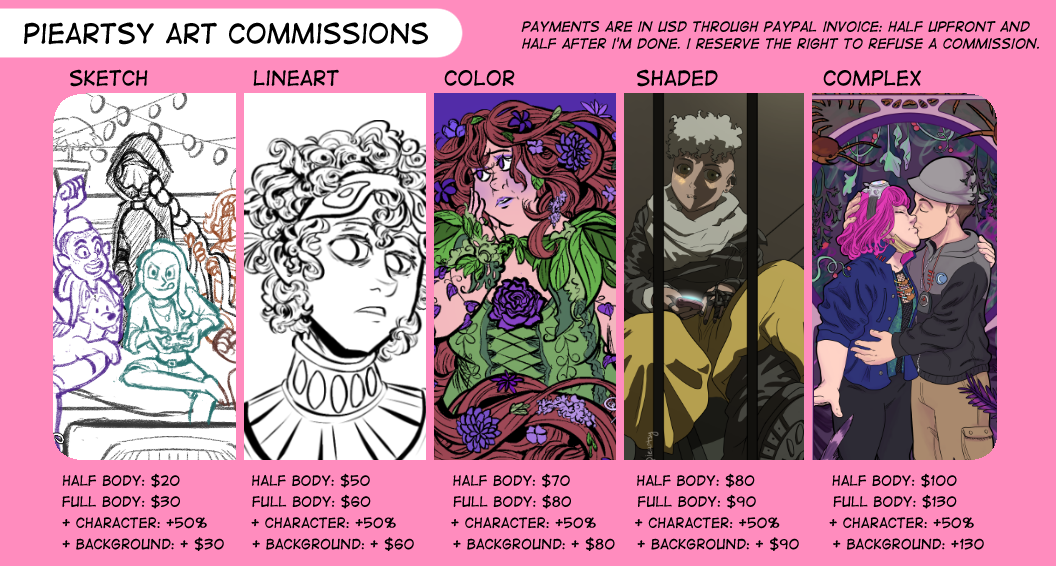
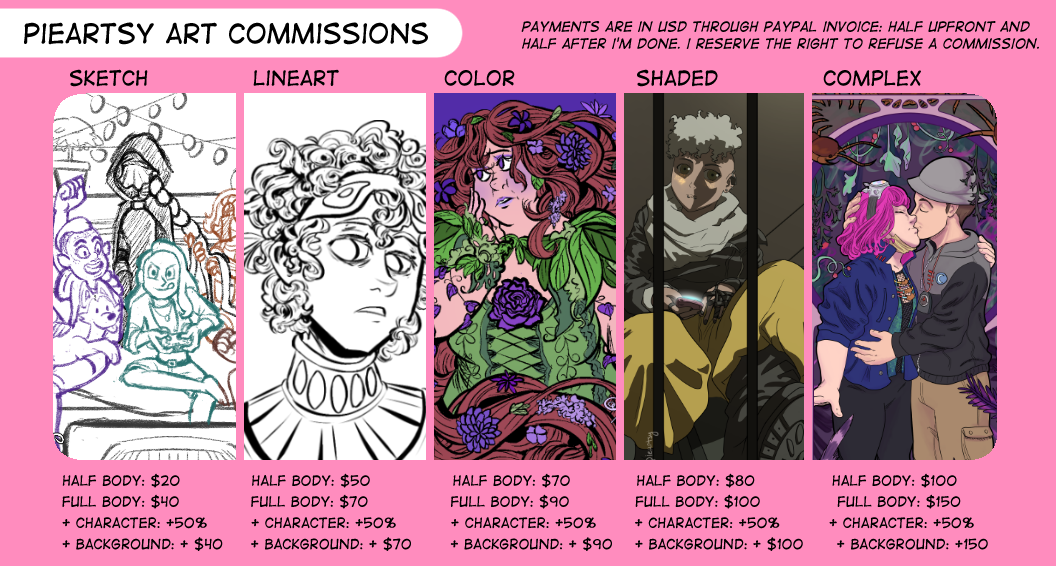
editing commission prices

diff --git a/commissions.html b/commissions.html
@@ -85,11 +85,11 @@
                         </tr>
                         <tr>
                             <th>Full body</th>
-                            <td>$30</td>
-                            <td>$60</td>
-                            <td>$80</td>
+                            <td>$40</td>
+                            <td>$70</td>
                             <td>$90</td>
-                            <td>$130</td>
+                            <td>$100</td>
+                            <td>$150</td>
                         </tr>
                         <tr>
                             <th>+Character</th>
@@ -101,11 +101,11 @@
                         </tr>
                         <tr>
                             <th>+Background</th>
-                            <td>+$30</td>
-                            <td>+$60</td>
-                            <td>+$80</td>
+                            <td>+$40</td>
+                            <td>+$70</td>
                             <td>+$90</td>
-                            <td>+$130</td>
+                            <td>+$100</td>
+                            <td>+$150</td>
                         </tr>
                     </tbody> 
                 </table>
@@ -207,21 +207,20 @@
 
             <div id="policy">
                 <h2>Commission Policy</h2>
-                <p>There is no shipping of this product as given in this invoice; this is a digital good.</p>
                     
-                <p><b>I will send you a paypal invoice.</b> Please give me the email linked to your paypal account. I use invoices because of buyer and seller protections.</p>
+                <p><b>I will send you a paypal invoice.</b> Please give me the email linked to your paypal account. I use invoices because of buyer and seller protections. <b>You will pay half upfront and half after receiving the product.</b> If you send me all of the money up front I will refund it and ask you to try again.</p>
                     
                 <p><span style="color:red;position:inline-block;"><b>NOTE:</b> Paypal often deadnames people</span> with their legal name (and it’s hard to get that changed later within Paypal, even if you’ve changed it legally). <span style="color:red"><b>If you’re not comfortable with this, talk to me and we can work something else out.</b></span></p>
 
-                <p><b>You will pay half upfront and half after receiving the product.</b> If you send me all of the money up front I will refund it and ask you to try again.</p>
+                <p>Please be prepared to provide as much detail on your characters' appearance and personality as possible, as well as your ideas for the illustration. The more you have, the better I can draw the illustration. A useful thread on how to provide visual references can be found at this link: <a href="https://docs.google.com/document/d/1jE9ORSQ5pw_jln0J12ZJLX_ql9FF1hEqAmdCmySRvqE/edit?usp=sharing">How to Gather References - A Guide for Clients</a>.</p>
 
                 <p>After a month has passed since the first half has been paid, if I have not started the commission in any way, I will give you a full refund of that payment on request. If I have already completed a stage of the commission (starting with the sketch) then a partial refund can be discussed. Once you have received the finished drawing, no refund is available.</p>
-                
-                <p><b>You are free to post this anywhere as long as you give credit to me in some way</b> (using a social media handle or my name or website). Cropping my watermark is not permissible.</p>
 
                 <p>I will send you the rough sketch first. Any changes at this point will be applied. You are free to ask for updates at any time, and I encourage and invite you to ask me for weekly updates. <b>If I am asking for an update or information from you, and two or more weeks go by without the requested information, I will table your commission and open up the slot for someone else.</b> Refund rules still apply.</p>
 
                 <p>Once the drawing is finished, only minor corrections (such as fixing a hand position, small color corrections, or fixing noticed errors) will be applied as needed. Any major changes (such as changing an entire pose or outfit) will cost more, at my discretion.</p>
+
+                <p>This is a digital good, not a physical item; however, you are free to print it out yourself. You may post this anywhere for <b>personal use</b> as long as you give credit to me in some way (using a social media handle or my name or website). More information on personal use can be found at this link: <a href="https://support.creativemarket.com/hc/en-us/articles/360021010094--Personal-License-FAQ">Personal Use Information</a>. Cropping or editing out my watermark is not permissible. Copyright to the work remains with me.</p>
 
 
                 <div id="commbuttons5" class="flex-centered">

diff --git a/pricecalculator.js b/pricecalculator.js
@@ -51,31 +51,31 @@
             case "sketch":
                 switch(size_index) {
                     case "Half": levelsizeprice=20; break;
-                    case "Full": levelsizeprice=30; break;
+                    case "Full": levelsizeprice=40; break;
                 }
                 break;
             case "lineart":
                 switch(size_index) {
                     case "Half": levelsizeprice=50; break;
-                    case "Full": levelsizeprice=60; break;
+                    case "Full": levelsizeprice=70; break;
                 }
                 break;
             case "color":
                 switch(size_index) {
                     case "Half": levelsizeprice=70; break;
-                    case "Full": levelsizeprice=80; break;
+                    case "Full": levelsizeprice=90; break;
                 }
                 break;
             case "shading":
                 switch(size_index) {
                     case "Half": levelsizeprice=80; break;
-                    case "Full": levelsizeprice=90; break;
+                    case "Full": levelsizeprice=100; break;
                 }
                 break;
             case "complex":
                 switch(size_index) {
                     case "Half": levelsizeprice=100; break;
-                    case "Full": levelsizeprice=130; break;
+                    case "Full": levelsizeprice=150; break;
                 }
                 break;
         }
@@ -91,35 +91,35 @@
             case "sketch":
                 switch(background) {
                     case true: 
-                        backgroundprice = 30;break;
+                        backgroundprice = 40;break;
                     default: backgroundprice = 0;
                 }
                 break;
             case "lineart":
                 switch(background) {
                     case true: 
-                        backgroundprice = 60;break;
+                        backgroundprice = 70;break;
                     default: backgroundprice = 0;
                 }
                 break;
             case "color":
                 switch(background) {
                     case true:
-                        backgroundprice = 80;break;
+                        backgroundprice = 90;break;
                     default: backgroundprice = 0;
                 }
                 break;
             case "shading":
                 switch(background) {
                     case true: 
-                        backgroundprice = 90; break;
+                        backgroundprice = 100; break;
                     default: backgroundprice = 0;
                 }
                 break;
             case "complex":
                 switch(background) {
                     case true: 
-                        backgroundprice = 130; break;
+                        backgroundprice = 150; break;
                     default: backgroundprice = 0;
                 }
                 break;

diff --git a/index.html b/index.html
@@ -49,7 +49,7 @@
                     My art
                 </summary>
                 <div class="accordion-body">
-                    I'm a self-taught digital illustrator and comic creator, primarily focused on character art. My work has been published in several zines, and I do commissions. Go <a href="art.html">here</a> for my art portfolio!
+                    I'm a self-taught digital illustrator and comic creator, primarily focused on character art. My work has been published in several zines, and I do commissions. Click this link for my art portfolio: <a href="art.html">Art</a>, or click this link to go straight to my art commissions: <a href="commisisons.html">Commissions</a> .
                     
                 </div>
             </details>
@@ -60,7 +60,7 @@
                     My poetry
                 </summary>
                 <div class="accordion-body">
-                    I'm a poet, and I have done several poem commissions. I'm working on an introspective chapbook. Go <a href="poems.html">here</a> for my poetry samples!
+                    I'm a poet, and I have done several poem commissions. I'm working on an introspective chapbook. Click this link for my poetry samples: <a href="poems.html">Poems</a>!
                 </div>
             </details>
 <!--

diff --git a/jquery/header.html b/jquery/header.html
@@ -8,6 +8,7 @@
         <section class= "navbar-center">
             <a href="index.html" class="btn btn-link">Home</a>
             <a href="art.html" class="btn btn-link">Art</a>
+            <a href="commissions.html" class="btn btn-link">Commissions</a>
             <a href="poems.html" class="btn btn-link">Poems</a>
         </section>
         <!--new section for social media links-->
@@ -36,6 +37,7 @@
         <section class= "navbar-section">
             <a href="index.html" class="btn btn-link">Home</a>
             <a href="art.html" class="btn btn-link">Art</a>
+            <a href="commissions.html" class="btn btn-link">Commissions</a>
             <a href="poems.html" class="btn btn-link">Poems</a>
         </section>
         <section class="navbar-section">
